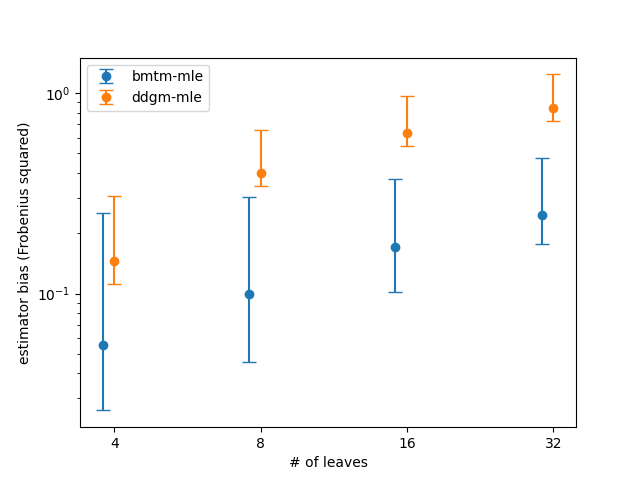
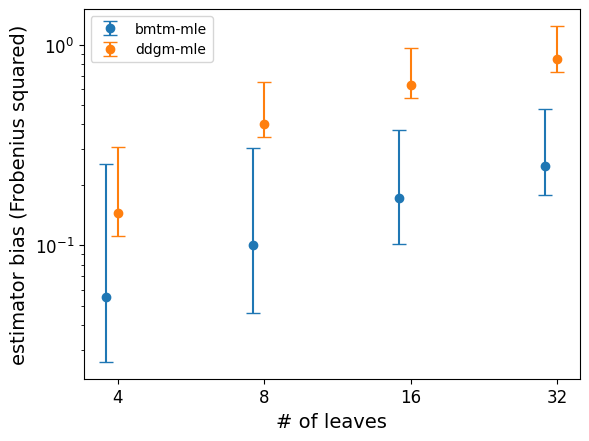
add style file and remove Tree.mle

diff --git a/src/tree.py b/src/tree.py
@@ -431,51 +431,6 @@ class Tree:
     def mle_set(self, var):
         return self.set_var(var)
     
-    def mle(self, method='trust-constr', max_var=30, accept=-100, maxiter=500, lam=0, global_param_space=None):
-        def is_singular(args):
-            #args = [self.top]+list(args)[1:] # del
-
-            self.mle_set(args)
-            return int(self.is_singular())
-
-        def opt(args):
-            #args = [self.top]+list(args)[1:] # del
-            
-            if any(a < 0 for a in args):
-                return -LOW_NUMBER 
-
-            self.mle_set(args)
-            ll = self.likelihood()
-            if lam != 0:
-                #print(lam*sum(a**2 for a in self.get_var()), ll)
-                ll -= lam*sum(a**2 for a in self.get_var())
-            return -1*ll # min to max
-
-        size = self.mle_size()
-        starting = [random.uniform(-1, 1) for _ in range(size)]
-        bnds = tuple((0, None) for _ in range(size))
-        #bnds = tuple((None, None) for _ in range(size))
-        cons = ({'type': 'ineq', 'fun': is_singular},)
-        #print(bnds, cons)
-
-        # Various optimization methods
-        if global_param_space is None:
-            global_param_space = tuple((0, max_var) for _ in range(size))
-        if method == 'dual_annealing':
-            res = optimize.dual_annealing(opt, global_param_space, accept=accept, maxiter=maxiter, initial_temp=10000)
-        elif method == 'differential_evolution':
-            res = optimize.differential_evolution(opt, global_param_space)
-        elif method == 'basinhopping':
-            res = optimize.basinhopping(opt, starting)
-        else:
-            res = optimize.minimize(opt, starting, method=method, bounds=bnds, constraints=cons)
-
-        #res2 = [self.top]+list(res.x)[1:] # del
-        #self.set_var(res2)
-        self.mle_set(res.x)
-        return res.x
-        #return res2
-    
     def is_observed_node(self, eps=EPSILON):
         if len(self.children) == 0:
             return True
@@ -560,7 +515,6 @@ if __name__ == '__main__':
     tree.make_prefix([2, 0, 0, 2, 0, 0])
     tree.set_data([1, 2, 5, 4])
     assert(tree.is_fully_observed())
-    print(tree.mle(method='differential_evolution'))
     print(tree.likelihood())
     print(tree.get_var())
     assert(False)

diff --git a/experiment_utils/plot_manager.py b/experiment_utils/plot_manager.py
@@ -34,6 +34,7 @@ class PlotManager:
         errorbars_dict = self._compute_errorbars(errors_dict)
         jitter = 0.08
         plt.clf()
+        plt.style.use('style.mplstyle')
         xs = np.arange(self.nsizes)
         for e_ix, estimator in enumerate(self.estimators):
             means = errorbars_dict[estimator][0]
@@ -56,4 +57,4 @@ class PlotManager:
         figures_dir = self.config.get_paths_config().get('figures_dir')
         os.makedirs(figures_dir, exist_ok=True)
         figure_filename = figures_dir + f'/{filename}'
-        plt.savefig(figure_filename)
+        plt.savefig(figure_filename, bbox_inches='tight')
